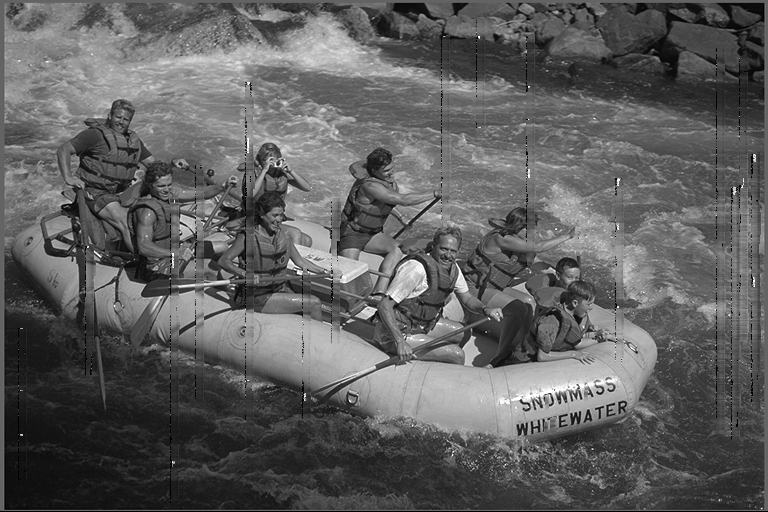
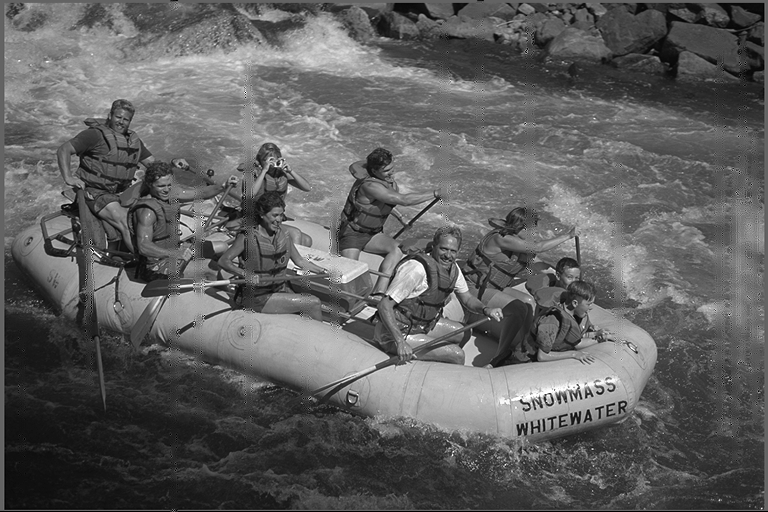
final update for project2

diff --git a/src/scratch_remover.py b/src/scratch_remover.py
@@ -1,0 +1,51 @@
+from src.image_transformer import ImageTransformer
+from src.scratch_detector import ScratchDetector
+from src.morphology import Morphology
+from src.morphological_mask_maker import MorphologicalMaskMaker
+from src.mask_blur import MaskBlur
+from src.filter import Filter
+from src.adaptive_median_filter import AdaptiveMedianFilter
+from src.kernels import *
+from src.convolution import Convolution
+from src.mask_filter import MaskFilter
+
+class ScratchRemover:
+
+
+    @staticmethod
+    def remove_vertical_large(img1,filename=None):
+        scratches = ImageTransformer(img1,debug=True)\
+                        .transform(ScratchDetector.detect_vertical_using_cross)\
+                            .write("proj2_images/out/"+filename+"_scratches.png")
+
+        expanded_scratches = ImageTransformer(scratches,debug=True)\
+                                .transform(Morphology.dilate,MorphologicalMaskMaker.rectangle(3,3))\
+                                    .write("proj2_images/out/"+filename+"_expanded_scratches.png")
+
+        F_blurred = ImageTransformer(img1,debug=True)\
+                        .transform(MaskBlur.blur_at,scratches,blur_x_strip_with_hole(25,1,7))\
+                            .transform(Filter.max_filter,3,3)\
+                                .transform(Filter.min_filter,3,3)\
+                                    .write("proj2_images/out/"+filename+"_f_blurred.png")
+
+        return ImageTransformer(img1,debug=True)\
+                    .add_at(expanded_scratches,F_blurred)\
+                        .transform(AdaptiveMedianFilter.filter_at,expanded_scratches,51)\
+                            .transform(MaskBlur.blur_at,expanded_scratches,unsharpen_kernel_3)\
+                                .get()
+
+    @staticmethod
+    def remove_vertical_small(img,filename=None):
+        theta = np.pi/3
+        thickness = 65
+        blurred_diag_mask1 = Convolution.convolve(MaskFilter.diagonal_line(img,theta,thickness,block=False),blur_kernel(2*thickness+1))
+        blurred_diag_mask2 = Convolution.convolve(MaskFilter.diagonal_line(img,np.pi-theta,thickness,block=False),blur_kernel(2*thickness+1))
+        blurred_diag_mask = (blurred_diag_mask1+blurred_diag_mask2)/2
+        
+        return ImageTransformer(img,debug=True)\
+                .transform(Convolution.convolve,blur_kernel(3))\
+                    .transform(Convolution.convolve,blurred_diag_mask,convolve_g=False,filename=filename)\
+                        .transform(Convolution.convolve,sharpen_kernel_3)\
+                            .transform(Convolution.convolve,sharpen_kernel_3)\
+                                .get()
+        

diff --git a/proj2.py b/proj2.py
@@ -16,45 +16,15 @@ from src.scratch_detector import ScratchDetector
 from src.filter import Filter
 from src.kernels import *
 from src.mask_blur import MaskBlur
+from src.scratch_remover import ScratchRemover
 import numpy as np
 import cv2
 
 if __name__ == "__main__":
 
-    #IMAGE 1
-    filename = "kodim09_input"
-    img1 = cv2.imread("proj2_images/synthetic/"+filename+".png")
+    filename = "mlts09_input"
+    img = cv2.imread("proj2_images/real/"+filename+".png")
 
-    img1_mask = cv2.imread("proj2_images/out/"+filename+"_mask.png")
-
-    scratches = ImageTransformer(img1_mask,debug=True)\
-                    .transform(ImageUtils.convert_to_grayscale)\
-                        .get()
-
-    # scratches = ImageTransformer(img1,debug=True)\
-    #                 .transform(ScratchDetector.detect_vertical_high_pass,1,10)\
-    #                     .write("proj2_images/out/"+filename+"_mask.png")\
-    # scratches = ImageTransformer(img1,debug=True)\
-    #                 .transform(ScratchDetector.detect_vertical_using_cross)\
-    #                     .write("proj2_images/out/"+filename+"_mask.png")
-
-    F_blurred = ImageTransformer(img1,debug=True)\
-                    .transform(MaskBlur.blur_at,scratches,blur_x_strip_with_hole(21,3,7))\
-                        .transform(AdaptiveMedianFilter.filter,51)\
-                        .write("proj2_images/out/"+filename+".png")
-
-                        # .transform(AdaptiveMedianFilter.filter_at,scratches,100)\
-    # ImageTransformer(F_scratched-F_blurred,debug=True)\
-    #     .transform(IntensityTransformer.map_intensities_to_viewable)\
-    #         .transform(np.abs)\
-    #     .write("proj2_images/out/"+filename+"_fourier.png")
-    
-
-                    # .write("proj2_images/out/"+filename+".png")
-        # .transform(MaskBlur.blur_at,scratches,blur_x_strip_with_hole(31,5,11))\
-            # .transform(Convolution.convolve,sharpen_kernel_3)\
-                    # .transform(AdaptiveMedianFilter.filter_at,scratches,51)\
-                        # .transform(Convolution.convolve, MaskFilter.butterworth_low_pass(img1,400,1),False,'test',)\
-                # .transform(AdaptiveMedianFilter.filter_at,scratches,101)\
-                # .transform(MaskBlur.blur_at,scratches,blur_x_strip(31,5))\
-                
+    ImageTransformer(img,debug=True)\
+        .transform(ScratchRemover.remove_vertical_small,filename=filename)\
+            .write("proj2_images/out/"+filename+".png")

diff --git a/src/mask_filter.py b/src/mask_filter.py
@@ -50,7 +50,7 @@ class MaskFilter:
     def ideal_band_pass(img, r_high, r_low, filename=None):
         N = img.shape[0]
         M = img.shape[1]
-        return np.multiply(ideal_high_pass(r_low), ideal_low_pass(r_high))
+        return np.multiply(MaskFilter.ideal_high_pass(img,r_low), MaskFilter.ideal_low_pass(img,r_high))
 
     @staticmethod
     def butterworth_low_pass(img, radius, n, filename=None):
@@ -115,6 +115,14 @@ class MaskFilter:
         return MaskFilter.make_mask(img,mask_func)
     
     @staticmethod
+    def vertical_line(img,i,thickness):
+        N = img.shape[0]
+        M = img.shape[1]
+        line_range = range(M//2-i-thickness,M//2+i+thickness)
+        mask_func = lambda i,j: 0 if j in line_range else 1
+        return MaskFilter.make_mask(img,mask_func)
+    
+    @staticmethod
     def cross(img,i,j,thickness):
         N = img.shape[0]
         M = img.shape[1]
@@ -130,4 +138,33 @@ class MaskFilter:
         i_range = range(N//2-i-thickness,N//2+i+thickness)
         j_range = range(M//2-i-thickness,M//2+i+thickness)
         mask_func = lambda i,j: 1 if (i in i_range or j in j_range) else 0
+        return MaskFilter.make_mask(img,mask_func)
+    
+    @staticmethod
+    def allow_rectangle(img,n,m):
+        N = img.shape[0]
+        M = img.shape[1]
+        i_range = range(N//2-n,N//2+n)
+        j_range = range(M//2-m,M//2+m)
+        mask_func = lambda i,j: 1 if (j in j_range and i in i_range) else 0
+        return MaskFilter.make_mask(img,mask_func)
+    
+    @staticmethod
+    def diagonal_line(img,theta,thickness,block=True):
+        N = img.shape[0]
+        M = img.shape[1]
+        cy = N//2
+        cx = M//2
+        mx = np.sin(theta)
+        my = np.cos(theta)
+        t = mx*thickness
+        def mask_func(i,j):
+            f1 = lambda i,j: (i-cy)*my <= (j-cx)*mx + t
+            f2 = lambda i,j: (i-cy)*my >= (j-cx)*mx - t
+            if(block):
+                return not (f1(i,j) and f2(i,j)) 
+            else:
+                return f1(i,j) and f2(i,j) 
+                
+
         return MaskFilter.make_mask(img,mask_func)

diff --git a/src/scratch_detector.py b/src/scratch_detector.py
@@ -36,7 +36,7 @@ class ScratchDetector:
 
         return ImageTransformer(img,debug=True)\
                 .transform(ImageUtils.convert_to_grayscale)\
-                    .transform(Convolution.convolve,MaskFilter.butterworth_high_pass(img,R,2),False,'test')\
+                    .transform(Convolution.convolve,MaskFilter.butterworth_high_pass(img,R,2),convolve_g=False)\
                         .transform(IntensityTransformer.binary_step,k=20)\
                             .transform(Morphology.open,square_mask)\
                                 .transform(Convolution.convolve,blur_kernel(7))\
@@ -46,13 +46,13 @@ class ScratchDetector:
     @staticmethod
     def detect_vertical_using_cross(img):
         square_mask = MorphologicalMaskMaker.rectangle(1,1)
-        vert_mask = MorphologicalMaskMaker.rectangle(2,21)
+        big_rectangle_mask = MorphologicalMaskMaker.rectangle(2,8)
         return ImageTransformer(img,debug=True)\
                 .transform(ImageUtils.convert_to_grayscale)\
-                    .transform(Convolution.convolve,MaskFilter.inverse_cross(img,0,0,3),convolve_g=False,filename="line_test")\
+                    .transform(Convolution.convolve,MaskFilter.inverse_cross(img,0,0,3),convolve_g=False)\
                         .transform(IntensityTransformer.map_intensities_to_viewable)\
                             .transform(EdgeDetector.sobel_x)\
                                 .transform(IntensityTransformer.binary_step,128)\
                                     .transform(Morphology.open,square_mask)\
-                                        .transform(Morphology.erode,vert_mask)\
-                                        .get()
+                                        .transform(Morphology.erode,big_rectangle_mask)\
+                                            .get()

diff --git a/src/image_transformer.py b/src/image_transformer.py
@@ -1,6 +1,8 @@
 import cv2
 import numpy as np
 import time
+from src.image_utils import ImageUtils
+from src.intensity_transformer import IntensityTransformer
 
 def map_to_view(x):
     if x < 0:
@@ -54,7 +56,30 @@ class ImageTransformer:
     def add_to(self,img,k=1):
         tmp_img = self.img
         self.img = img
-        return self.add(tmp_img,k=k)   
+        return self.add(tmp_img,k=k) 
+
+    ##mask should be binary stepped ie) (0 || 255)
+    def add_at(self,mask,img2,k=1,filename=None):
+        bmask = mask/255
+        anti_mask = 1-bmask
+        new_img = np.ndarray(shape=self.img.shape)
+        if(len(self.img.shape)==3):
+            self.img[:,:,0] = np.multiply(anti_mask,self.img[:,:,0])
+            self.img[:,:,1] = np.multiply(anti_mask,self.img[:,:,1])
+            self.img[:,:,2] = np.multiply(anti_mask,self.img[:,:,2])
+            new_img[:,:,0] = np.multiply(bmask,img2[:,:,0])
+            new_img[:,:,1] = np.multiply(bmask,img2[:,:,1])
+            new_img[:,:,2] = np.multiply(bmask,img2[:,:,2])
+        elif len(self.img.shape)==2:
+            self.img = np.multiply(anti_mask,self.img)
+            new_img = np.multiply(bmask,img2)
+
+        if filename is not None:
+            cv2.imwrite("images/arithmetic/"+filename+"_add_by_mask.png",new_img)
+        
+        return self.add(new_img,k=k)
+        
+        
     
     def subtract(self,img,k=1):
         print("beginning subtract")

diff --git a/src/fourier.py b/src/fourier.py
@@ -1,5 +1,6 @@
 import numpy as np
 import cv2
+from src.intensity_transformer import IntensityTransformer
 
 """
 ASSUMES ALL INPUT IMAGES ARE EITHER GRAYSCALE OR HSV
@@ -11,6 +12,15 @@ class FourierTransform:
             return FourierTransform.transform_color(img, filename)
         elif len(img.shape) == 2:
             return FourierTransform.transform_flat(img, filename)
+
+    @staticmethod
+    def transform_phase_only(img,filename=None):
+        ft = FourierTransform.transform(img)
+        phot = ft/(1+np.abs(ft))
+        if filename is not None:
+            vf_img = FourierTransform.get_viewable_fourier(phot)
+            cv2.imwrite("images/fourier/" + filename + ".jpg", vf_img)
+        return phot
 
     @staticmethod
     def transform_color(img, filename=None):
@@ -38,14 +48,14 @@ class FourierTransform:
 
     @staticmethod
     def inverse_transform_color(img):
-        new_img = np.ndarray(img.shape)
+        new_img = np.ndarray(img.shape,dtype="uint8")
         Himg = img[:, :, 0]
         Simg = img[:, :, 1]
         Vimg = img[:, :, 2]
         new_img[:, :, 0] = abs(Himg)
         new_img[:, :, 1] = abs(Simg)
         new_img[:, :, 2] = FourierTransform.inverse_transform_flat(Vimg)
-        return new_img
+        return cv2.cvtColor(new_img,cv2.COLOR_HSV2RGB)
 
     @staticmethod
     def inverse_transform(img,filename=None):

diff --git a/src/filter.py b/src/filter.py
@@ -7,6 +7,15 @@ import numpy as np
 
 class Filter(FilterBase):
     contraharmonic_Q = 1.5
+
+    @staticmethod
+    def max_filter(img,n,m,filename=None):
+        return Filter.filter(Filter.process_window_max_filter,img,n,m,filename)
+
+    @staticmethod
+    def min_filter(img,n,m,filename=None):
+        return Filter.filter(Filter.process_window_min_filter,img,n,m,filename)
+
     @staticmethod
     def filter_arithmetic_mean(img,n,m,filename=None):
         return Filter.filter(Filter.process_window_arithmetic_mean,img,n,m,filename)
@@ -46,6 +55,16 @@ class Filter(FilterBase):
         window = img[i-n//2:i+1+n//2,j-m//2:j+1+m//2]
         return (window.sum()**(Filter.contraharmonic_Q+1))/(window.sum()**(Filter.contraharmonic_Q))
     
+    @staticmethod
+    def process_window_max_filter(img,i,j,n,m):
+        window = img[i-n//2:i+1+n//2,j-m//2:j+1+m//2]
+        return window.max()
+
+    @staticmethod
+    def process_window_min_filter(img,i,j,n,m):
+        window = img[i-n//2:i+1+n//2,j-m//2:j+1+m//2]
+        return window.min()
+
     @staticmethod
     def wiener_filter(img,kt,ks):
         H = MaskFilter.get_turbulence(img,kt)
